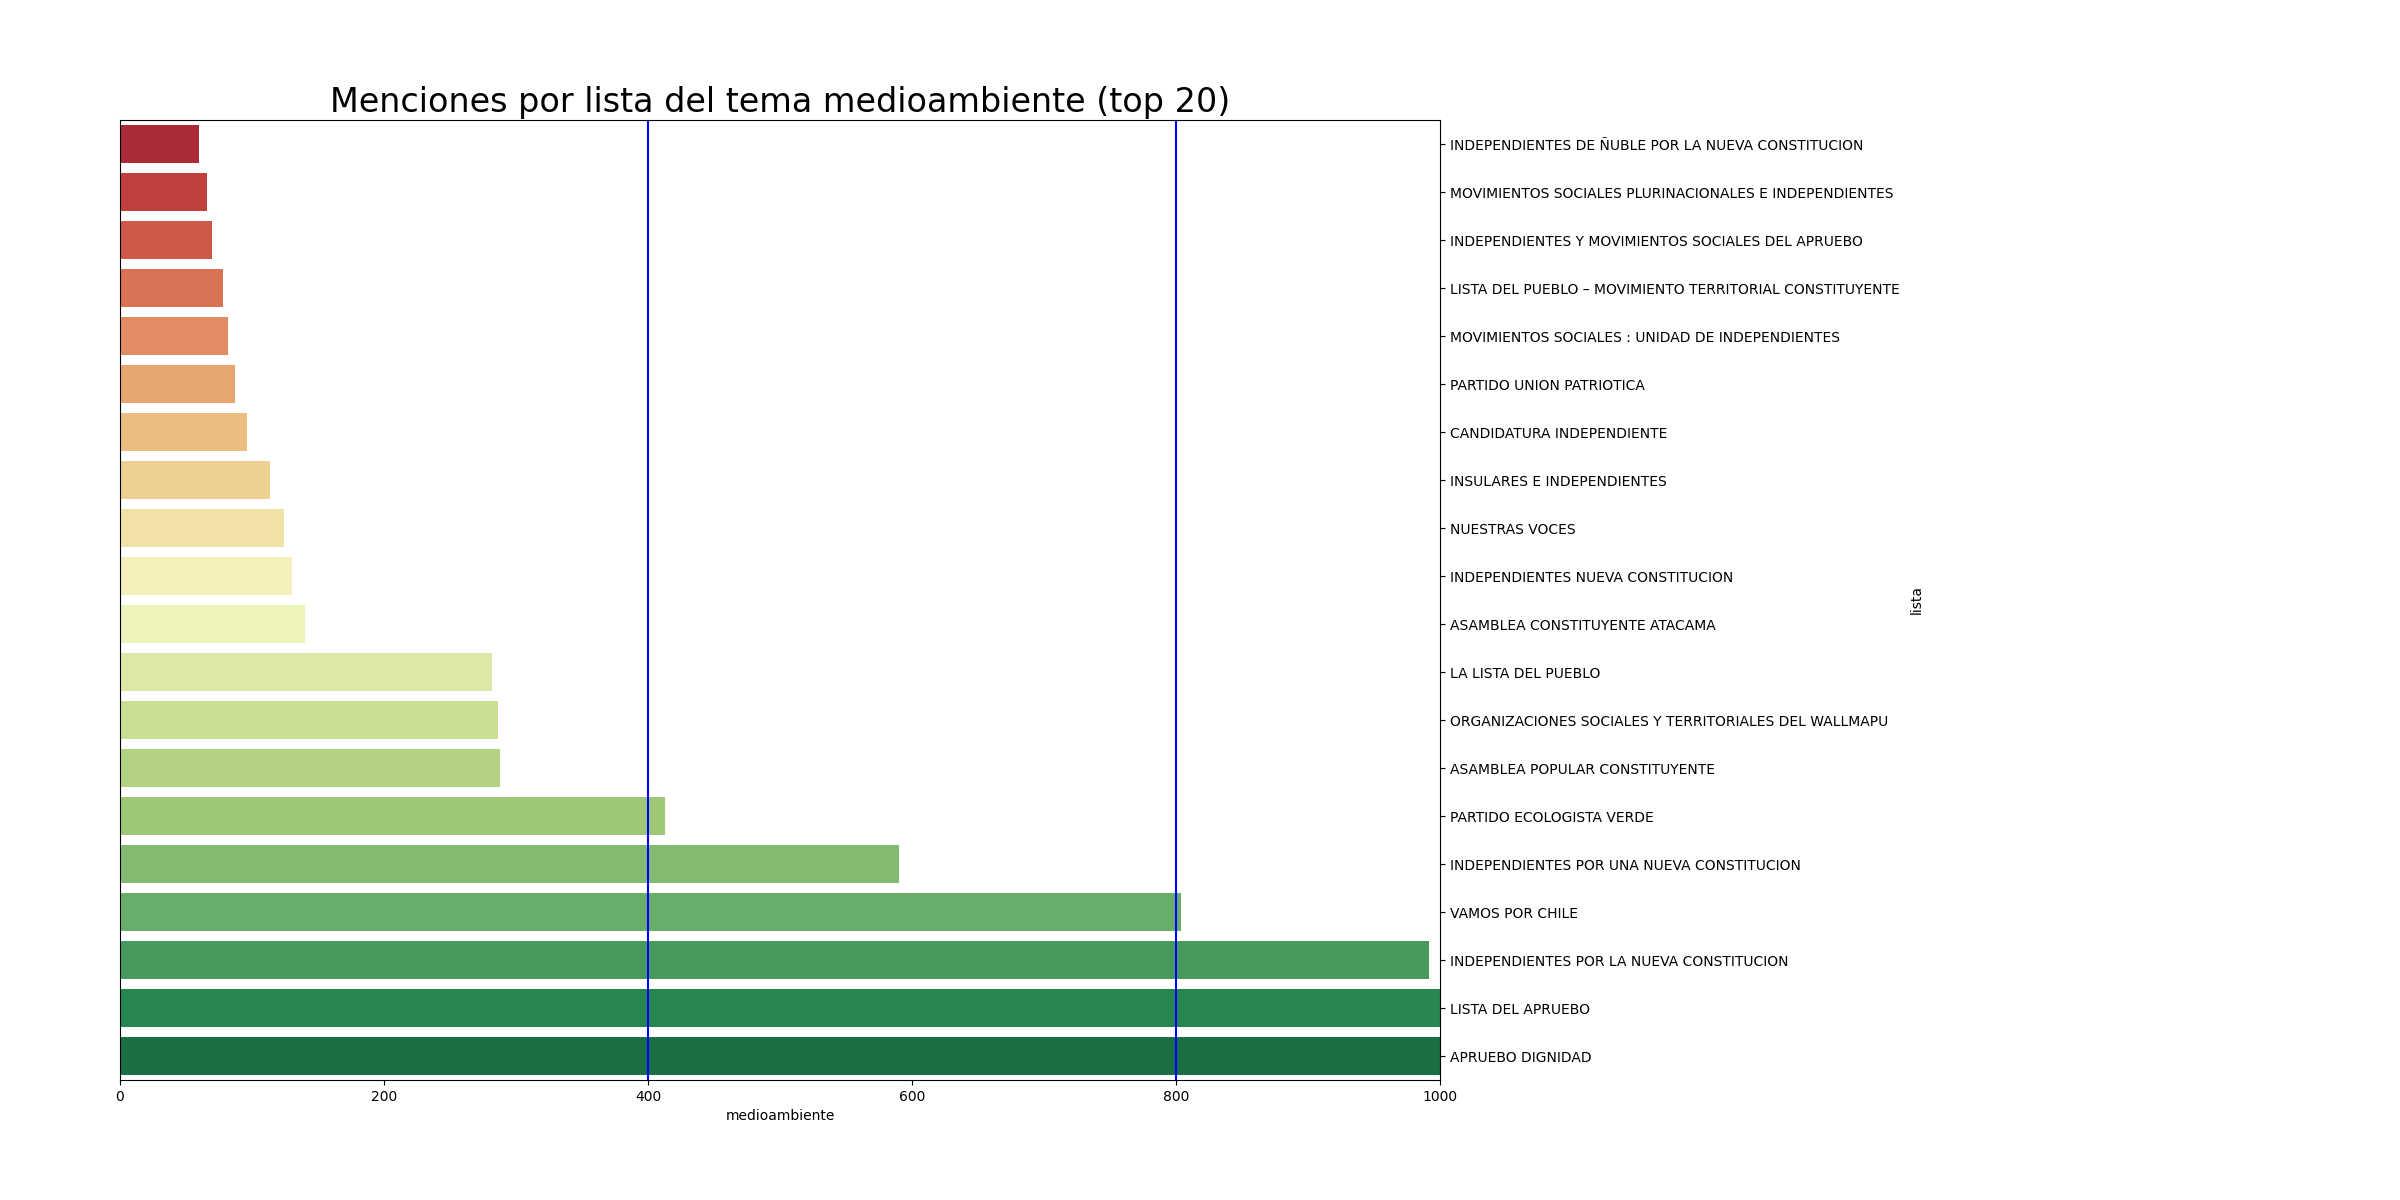
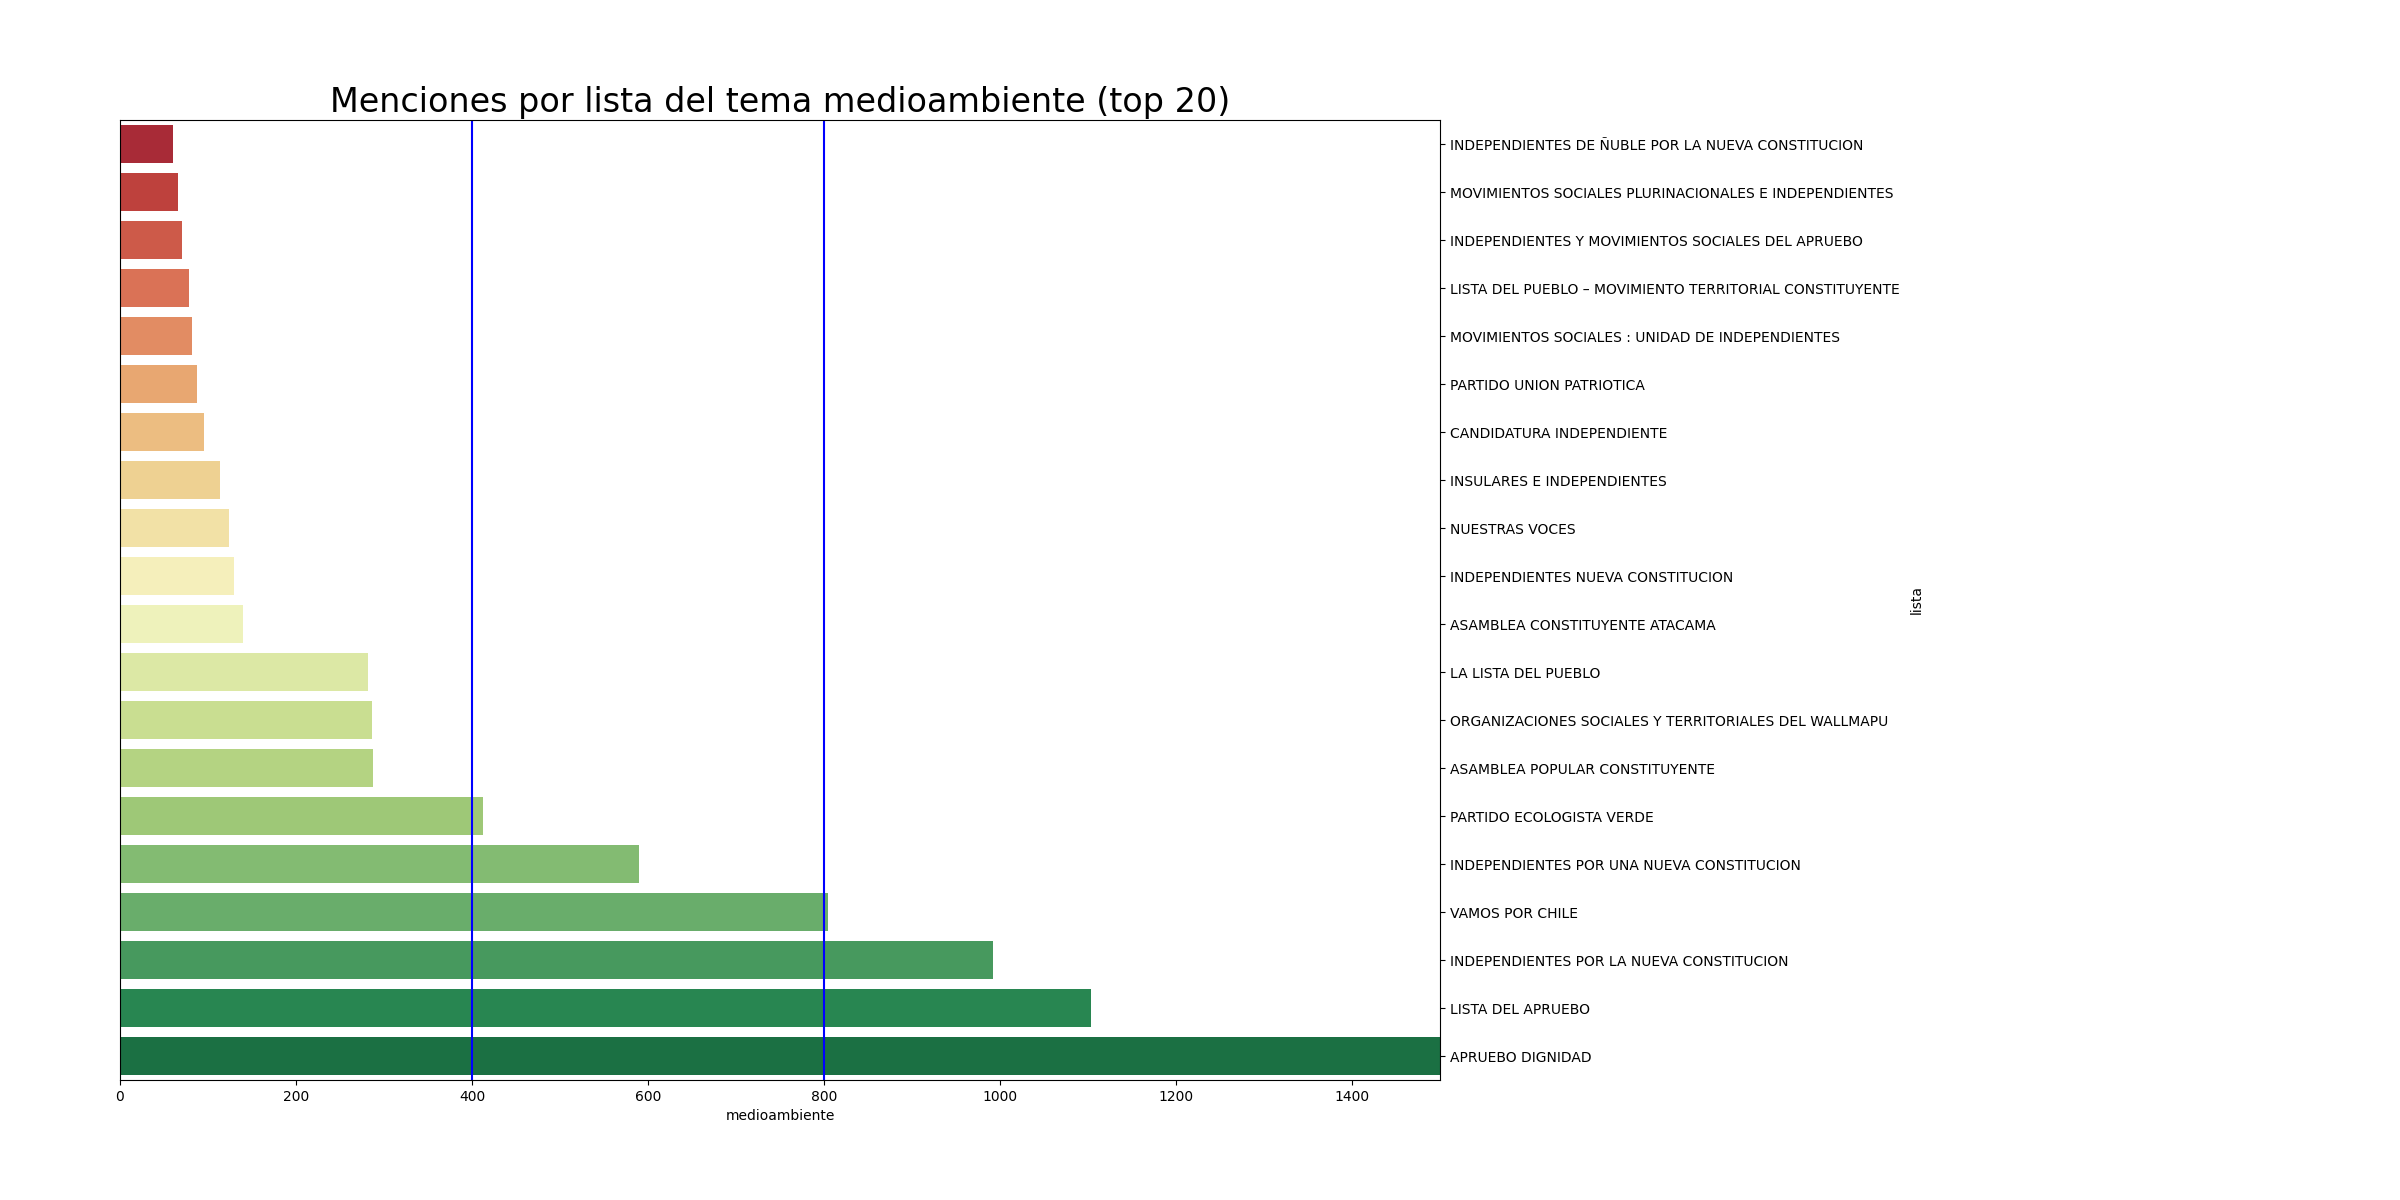
pushing it

Changed region(s): [[0.1562, 0.5242, 0.625, 0.8633], [0.0625, 0.0925, 0.125, 0.555]]

diff --git a/plotters.py b/plotters.py
@@ -181,6 +181,8 @@ lisdf = lisdf.drop(columns=['largo'], axis=1)
 ts = lisdf.sum(axis=1).sort_values().reset_index()
 ts.columns = ['lista','total_menciones']
 ts['total_menciones']=ts.total_menciones/2       # está duplicada
+#print(ts)
+#wn
 ts = ts.tail(20)
 sns.barplot(x='total_menciones', data=ts.sort_values('total_menciones'), 
             y='lista', palette='RdYlGn')
@@ -208,7 +210,7 @@ for tema in temas:
     ax.yaxis.tick_right()   # all this works!
     plt.subplots_adjust(left=0.05, right=0.6, top=0.9, bottom=0.1)
     #plt.margins(x=0.2)
-    plt.xlim([0,1000] if tema=='agua' else [0,400] if tema=='clima' else [0,1000])
+    plt.xlim([0,1000] if tema=='agua' else [0,400] if tema=='clima' else [0,1500])
     plt.title(f'Menciones por lista del tema {tema} (top 20)', size=24)
     plt.savefig(f'static/barplot_listas_{tema}.png')
     plt.close()
